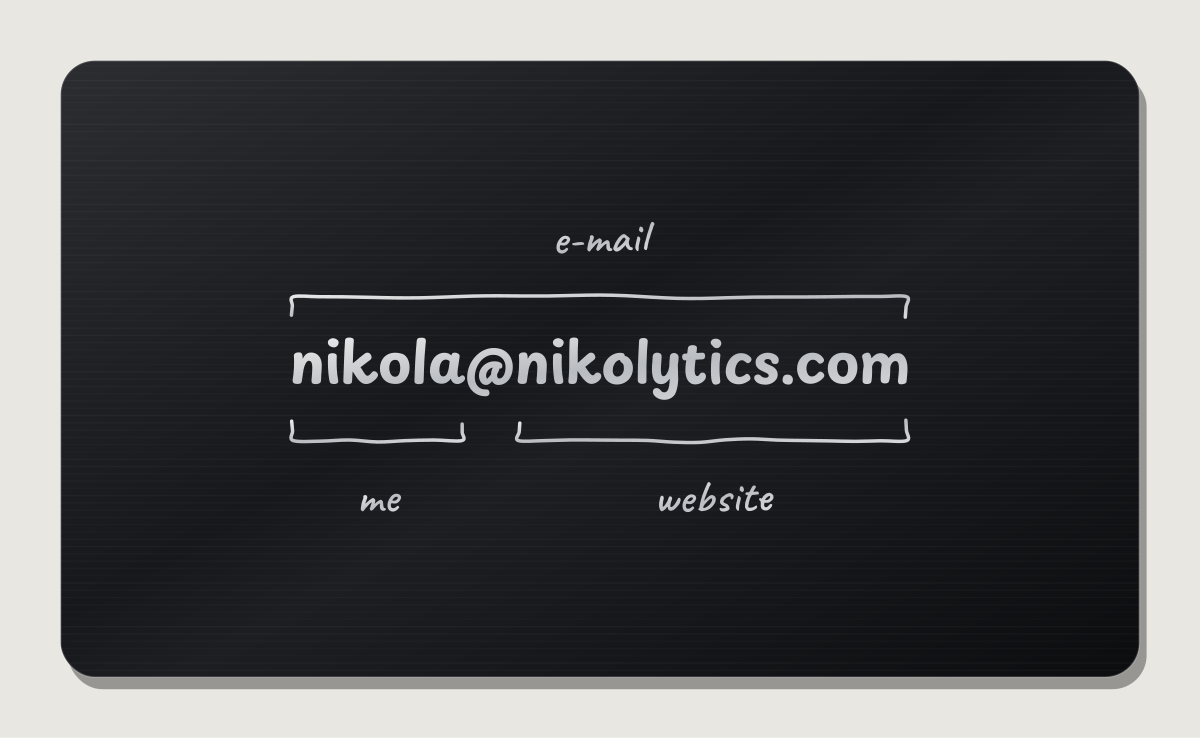
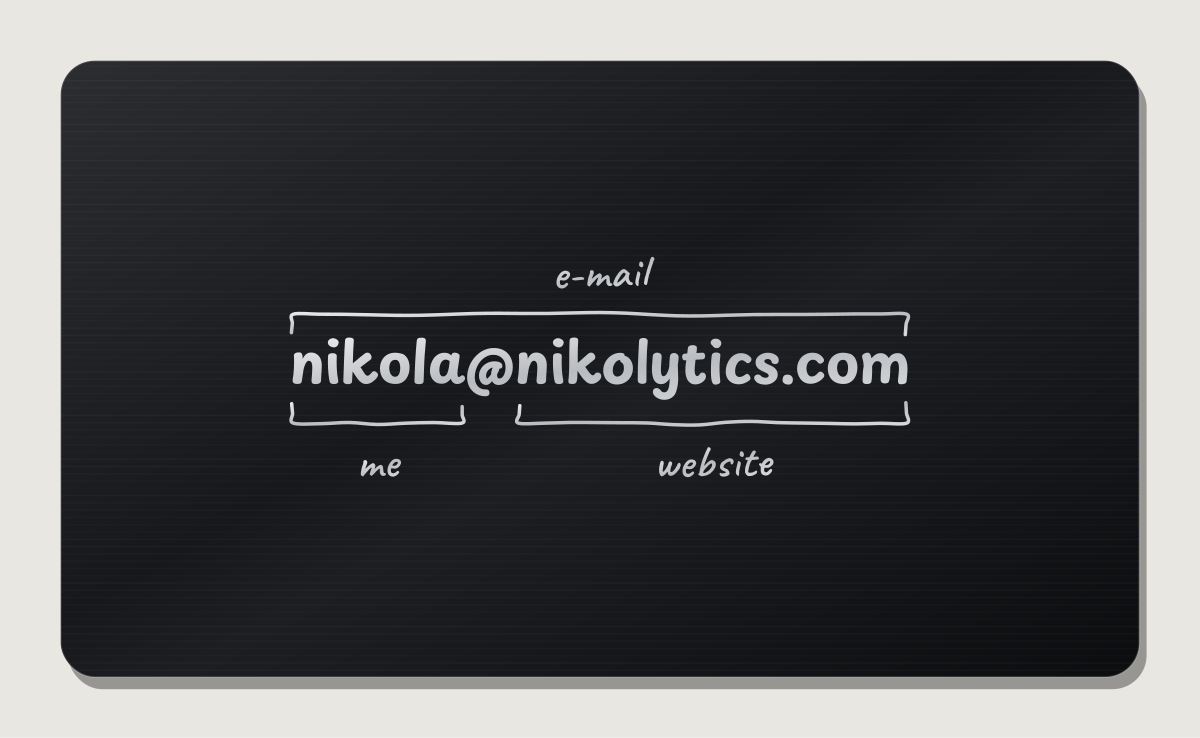
Tighten bracket and label spacing on the card back
Brackets sit 2.4mm off the address ink (was 4.2), labels 2.6mm off
their brackets (was 4.4).

Claude-Session: https://claude.ai/code/session_01NopCU4BZ4epPy7qkQeV9GA

Changed region(s): [[0.2158, 0.3117, 0.7708, 0.4363], [0.4317, 0.561, 0.7708, 0.7168], [0.2158, 0.561, 0.4008, 0.7168]]

diff --git a/design/business-card/generate_sketch.py b/design/business-card/generate_sketch.py
@@ -153,10 +153,10 @@ web_d, web_w, _, (w_ymin, w_ymax) = caveat.shape("website", LBL_SIZE, tracking=0
 # vertical composition, mirrored around the address so top and bottom
 # groups sit at identical ink-to-bracket and bracket-to-label distances
 email_base = 288.0                       # provisional; block is re-centred below
-brk_y = email_base + e_ymax + 42.0       # under-brackets: 4.2 mm below lowest ink
-lbl_base = brk_y - w_ymin + 44.0         # bottom labels: ink top 4.4 mm below line
-top_brk_y = email_base + e_ymin - 42.0   # over-bracket: 4.2 mm above highest ink
-top_base = top_brk_y - t_ymax - 44.0     # e-mail label: ink bottom 4.4 mm above line
+brk_y = email_base + e_ymax + 24.0       # under-brackets: 2.4 mm below lowest ink
+lbl_base = brk_y - w_ymin + 26.0         # bottom labels: ink top 2.6 mm below line
+top_brk_y = email_base + e_ymin - 24.0   # over-bracket: 2.4 mm above highest ink
+top_base = top_brk_y - t_ymax - 26.0     # e-mail label: ink bottom 2.6 mm above line
 
 # centre the whole block on the card
 block_top = top_base + t_ymin
